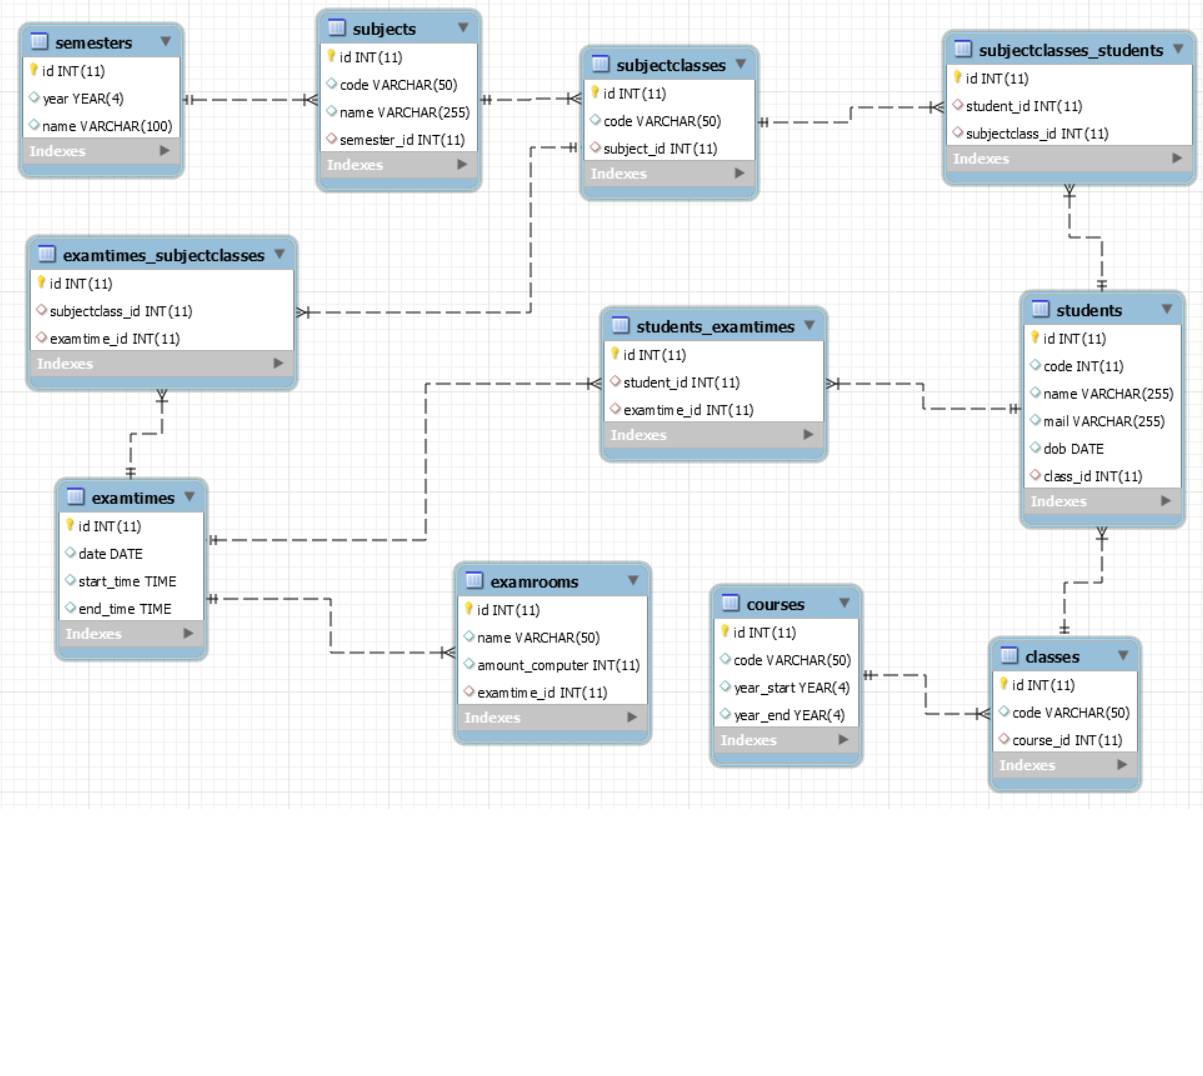
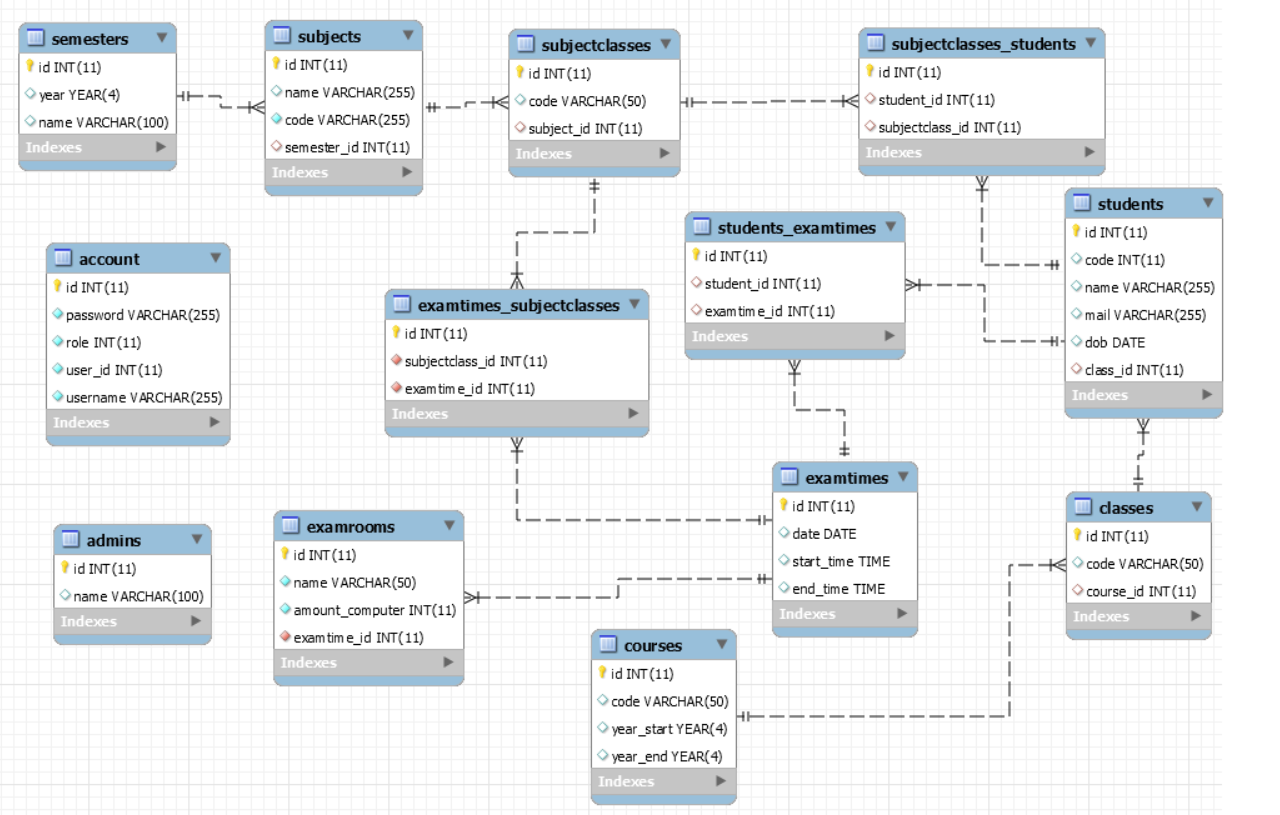
fix db and login func

diff --git a/model/Students.php b/model/Students.php
@@ -11,6 +11,11 @@ class Students
     public $class_id; // ID lớp học
     public $class_name; // tên lớp học
 
+    private $tb_account = 'account'; // bảng tài khoản
+    public $student_id; // ID người dùng
+    public $password; // mật khẩu
+    public $role = 2; // vai trò (1: admin, 2: student)
+
     private $conn;
 
     public function __construct($db)
@@ -76,6 +81,21 @@ class Students
         return false;
     }
 
+     /**
+     * lấy ID cuối của SV
+     */
+    public function getLastStudentId()
+    {
+        $query = "select max(id) as id from $this->tb_students";
+        $stm = $this->conn->prepare($query);
+        $stm->execute();
+        $row = $stm->fetch(PDO::FETCH_ASSOC);
+        if ($row) {
+            extract($row);
+            return $id;
+        }
+    }
+
     /**
      * thêm sinh viên từ file excel
      */
@@ -92,6 +112,7 @@ class Students
         $spreadsheet = $reader->load($_FILES['upexcel']['tmp_name']);
         $worksheet = $spreadsheet->getActiveSheet();
         $sql = "INSERT INTO $this->tb_students set code=:code, name=:name, dob=:dob, mail=:mail, class_id=:class_id";
+        $sql1 = "INSERT INTO $this->tb_account set user_id=:user_id, username=:username, password=:password, role=:role";
         $dataFromExels = [];
         $dataFromExels['datas'] = [];
         $dataFromExels['studentExisted'] = [];
@@ -128,7 +149,7 @@ class Students
                     $num = $student->rowCount();
                     // check if student exist
                     if ($num == 0) { // student not exist in db
-                        try {
+                        
                             // modify date of birth
                             $time = explode('/', $dataFromExel['dob']);
                             $newTime = $time[1] . '/' . $time[0] . '/' . $time[2];
@@ -150,10 +171,17 @@ class Students
                                 $stmt->bindParam('mail', $newMail);
                                 $stmt->bindParam('class_id', $this->class_id);
                                 $stmt->execute();
+
+                                $this->id = $this->getLastStudentId();
+                                $stmt1 = $this->conn->prepare($sql1);
+                                $stmt1->bindParam('user_id', $this->id);
+                                $stmt1->bindParam('username', $dataFromExel['code']);
+                                $password = password_hash($dataFromExel['code'], PASSWORD_DEFAULT);
+                                $stmt1->bindParam('password', $password);
+                                $stmt1->bindParam('role', $this->role);
+                                $stmt1->execute();
                             }
-                        } catch (Exception $ex) {
-                            echo json_encode(['error' => 'query error']);
-                        }
+                        
                     } else { // student exist in db
                         $row = $student->fetch(PDO::FETCH_ASSOC);
                         extract($row);

diff --git a/model/Account.php b/model/Account.php
@@ -1,10 +1,13 @@
 <?php
     class Account{
-        private $table = 'users';
+        private $tb_account = 'account';
+        private $tb_students = 'students';
+        private $tb_admins = 'admins';
+
         public $id;
-        public $name;
-        public $email;
+        public $username;
         public $password;
+
         private $conn;
 
         public function __construct($db){
@@ -12,17 +15,17 @@
         }
 
         public function login(){
-            $query = "select * from $this->table where email=:email";
+            $query = "select * from $this->tb_account where username=:username";
             $stm = $this->conn->prepare($query);
-            $stm->bindParam('email', $this->email);
+            $stm->bindParam('username', $this->username);
             $stm->execute();
             $num = $stm->rowCount();
             if($num > 0){
                 $row = $stm->fetch(PDO::FETCH_ASSOC);
                 extract($row);
                 $this->id = $id;
-                $this->name = $name;
-                $this->email = $email;
+                $this->username = $username;
+                $this->role = $role;
                 if( password_verify($this->password, $password)){
                     return true;
                 } 
@@ -31,7 +34,7 @@
         }
         
         public function register(){
-            $query = "insert into $this->table set name=:name, email=:email, password=:pass";
+            $query = "insert into $this->tb_account set name=:name, email=:email, password=:pass";
             $stm = $this->conn->prepare($query);
             $stm->bindParam('name', $this->name);
             $stm->bindParam('email', $this->email);

diff --git a/api/Account/Login.php b/api/Account/Login.php
@@ -13,14 +13,15 @@
       $account = new Account($db);
 
       $data = json_decode(file_get_contents('php://input'));
-      $account->email = $data->email;
+      $account->username = $data->username;
       $account->password = $data->password;
       if($account->login()){
         http_response_code(200);
         $key="check_login";
         $token = [
-            'id'=>$account->id,
-            'name'=>$account->email,
+            // 'id'=>$account->id,
+            // 'code'=>$account->code,
+            'role'=>$account->role,
             'exp'=>time()
         ];
         $jwt = JWT::encode($token, $key);
